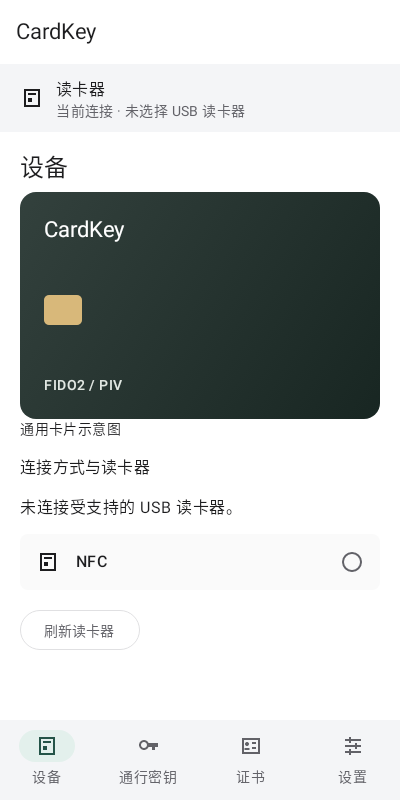
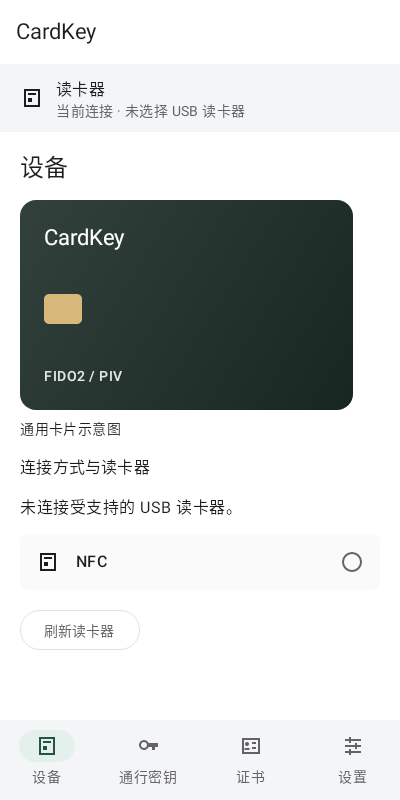
Bound card artwork and distinguish passkey accounts
AI-Agent: Codex
AI-Model: gpt-6.1-sol

Changed region(s): [[0.03, 0.2188, 0.96, 0.5312], [0.09, 0.2812, 0.33, 0.3125], [0.03, 0.25, 0.06, 0.2812]]

diff --git a/app/src/test/java/cc/cardkey/ui/PlexoPresentationRegressionTest.kt b/app/src/test/java/cc/cardkey/ui/PlexoPresentationRegressionTest.kt
@@ -1,0 +1,126 @@
+package cc.cardkey.ui
+
+import android.graphics.Bitmap
+import androidx.activity.ComponentActivity
+import androidx.activity.compose.setContent
+import androidx.compose.foundation.layout.*
+import androidx.compose.foundation.rememberScrollState
+import androidx.compose.foundation.verticalScroll
+import androidx.compose.material3.Text
+import androidx.compose.runtime.*
+import androidx.compose.ui.Modifier
+import androidx.compose.ui.platform.LocalDensity
+import androidx.compose.ui.platform.testTag
+import androidx.compose.ui.semantics.SemanticsActions
+import androidx.compose.ui.test.*
+import androidx.compose.ui.test.junit4.createEmptyComposeRule
+import androidx.compose.ui.text.TextLayoutResult
+import androidx.compose.ui.unit.Density
+import androidx.compose.ui.unit.dp
+import cc.cardkey.protocol.fido.*
+import org.junit.Assert.*
+import org.junit.Rule
+import org.junit.Test
+import org.junit.runner.RunWith
+import org.robolectric.Robolectric
+import org.robolectric.RobolectricTestRunner
+import org.robolectric.annotation.Config
+import org.robolectric.annotation.GraphicsMode
+import org.robolectric.annotation.LooperMode
+
+@RunWith(RobolectricTestRunner::class)
+@Config(sdk = [34], qualifiers = "w1200dp-h1000dp-mdpi")
+@LooperMode(LooperMode.Mode.PAUSED)
+@GraphicsMode(GraphicsMode.Mode.NATIVE)
+class PlexoPresentationRegressionTest {
+    @get:Rule val compose = createEmptyComposeRule()
+
+    @Test fun artworkFitsPhoneAndWideLandscapeWithoutOverlappingFollowingContent() {
+        val host = Robolectric.buildActivity(ComponentActivity::class.java).setup().visible()
+        var width by mutableIntStateOf(400)
+        var artwork by mutableStateOf<CardArtworkState>(CardArtworkState.Default)
+        host.get().setContent {
+            CompositionLocalProvider(LocalDensity provides Density(1f)) {
+                CardKeyTheme {
+                    Column(Modifier.requiredSize(width.dp, 480.dp).verticalScroll(rememberScrollState()).padding(20.dp)) {
+                        CardArtworkHero(artwork) {}
+                        Text("Following content", Modifier.testTag("following-content"))
+                    }
+                }
+            }
+        }
+        try {
+            val loaded = CardArtworkState.Loaded(Bitmap.createBitmap(16, 10, Bitmap.Config.ARGB_8888), "Synthetic card image")
+            for (candidateWidth in listOf(400, 1200)) {
+                for (state in listOf(CardArtworkState.Default, CardArtworkState.Loading, CardArtworkState.Failed, loaded)) {
+                    compose.runOnIdle { width = candidateWidth; artwork = state }
+                    val label = if (state is CardArtworkState.Loaded) state.label else "通用卡片示意图"
+                    val image = compose.onNodeWithContentDescription(label).fetchSemanticsNode().boundsInRoot
+                    val next = compose.onNodeWithTag("following-content").fetchSemanticsNode().boundsInRoot
+                    assertTrue("Artwork height exceeds its 210dp budget: $image", image.height <= 210.5f)
+                    assertTrue("Artwork overlaps following content: $image / $next", image.bottom <= next.top)
+                    assertEquals(1.586f, image.width / image.height, 0.02f)
+                }
+            }
+        } finally { host.pause().stop().destroy() }
+    }
+
+    private val rp = InventoryRp(RelyingParty("example.test", "Synthetic site", ByteArray(32)))
+    private fun credential(name: String?, displayName: String?, suffix: Int) = InventoryCredential(rp,
+        Credential(ByteArray(32) { 0x42 }.also { it[31] = suffix.toByte() },
+            FidoUser(byteArrayOf(suffix.toByte()), name, displayName), Cbor.Map(emptyMap()), null))
+
+    private fun renderCredentials(credentials: List<InventoryCredential>, check: (() -> InventoryCredential?) -> Unit) {
+        val host = Robolectric.buildActivity(ComponentActivity::class.java).setup().visible()
+        var selected: InventoryCredential? = null
+        host.get().setContent {
+            CompositionLocalProvider(LocalDensity provides Density(1f)) {
+                CardKeyTheme {
+                    Box(Modifier.requiredSize(400.dp, 800.dp)) {
+                        PlexoObjects(0, 0x9a, InventoryState(rps = listOf(rp), rp = rp, credentials = credentials),
+                            true, rememberScrollState(), {}, {}, {}, {}, { selected = it }, {}, {})
+                    }
+                }
+            }
+        }
+        try { compose.waitForIdle(); check { selected } }
+        finally { host.pause().stop().destroy() }
+    }
+
+    @Test fun sameDisplayNameStillShowsDifferentActualUsernamesAndRetainsSelection() {
+        val credentials = listOf(credential("alice@example.test", "Personal", 1), credential("bob@example.test", "Personal", 2))
+        renderCredentials(credentials) { selected ->
+            credentials.forEach { credential ->
+                compose.onNodeWithTag("object-credential-${credential.idHex}").performScrollTo()
+                    .assertTextContains(requireNotNull(credential.name), substring = true).performClick()
+                assertSame(credential, selected())
+            }
+        }
+    }
+
+    @Test fun identicalAccountTextIncludesCompleteCredentialIds() {
+        val credentials = listOf(credential("account@example.test", "Personal", 1), credential("account@example.test", "Personal", 2))
+        assertCompleteIdsAndSelection(credentials)
+    }
+
+    @Test fun missingAccountNamesIncludeCompleteCredentialIds() {
+        val credentials = listOf(credential(null, "Personal", 3), credential("", "Personal", 4),
+            credential(null, null, 5), credential(null, null, 6))
+        assertCompleteIdsAndSelection(credentials)
+    }
+
+    private fun assertCompleteIdsAndSelection(credentials: List<InventoryCredential>) {
+        renderCredentials(credentials) { selected ->
+            credentials.forEach { credential ->
+                val row = compose.onNodeWithTag("object-credential-${credential.idHex}")
+                row.performScrollTo().assertTextContains(credential.idHex, substring = true)
+                val results = mutableListOf<TextLayoutResult>()
+                compose.onNodeWithText(credential.idHex, substring = true, useUnmergedTree = true)
+                    .performSemanticsAction(SemanticsActions.GetTextLayoutResult) { it(results) }
+                assertFalse("Credential ID must remain fully laid out", results.single().hasVisualOverflow)
+                row.performClick()
+                assertSame(credential, selected())
+            }
+        }
+    }
+}

diff --git a/app/src/main/java/cc/cardkey/ui/PlexoWorkspace.kt b/app/src/main/java/cc/cardkey/ui/PlexoWorkspace.kt
@@ -72,9 +72,22 @@ internal fun PlexoObjects(
             if (inventory.rp != null) {
                 Text(stringResource(R.string.workspace_credentials), style = MaterialTheme.typography.titleSmall)
                 if (inventory.credentials.isEmpty()) Text(stringResource(R.string.workspace_credentialReadRequired))
-                inventory.credentials.forEach { credential ->
-                    ObjectOption(credential.displayName ?: credential.name ?: credential.idHex,
-                        credential.rp.id, inventory.credential == credential, enabled,
+                val rows = inventory.credentials.map { credential ->
+                    val name = credential.name?.takeIf { it.isNotBlank() }
+                    val title = credential.displayName?.takeIf { it.isNotBlank() } ?: name ?: credential.idHex
+                    Triple(credential, title, name)
+                }
+                val labelCounts = rows.groupingBy { (credential, title, name) ->
+                    Triple(credential.rp.id, title, name)
+                }.eachCount()
+                rows.forEach { (credential, title, name) ->
+                    val ambiguous = name == null || labelCounts.getValue(Triple(credential.rp.id, title, name)) > 1
+                    val details = buildList {
+                        if (name != null && name != title) add(name)
+                        add(credential.rp.id)
+                        if (ambiguous && title != credential.idHex) add("凭据 ID · ${credential.idHex}")
+                    }.joinToString("\n")
+                    ObjectOption(title, details, inventory.credential == credential, enabled,
                         "object-credential-${credential.idHex}") { onCredential(credential) }
                 }
             }

diff --git a/app/src/main/java/cc/cardkey/ui/CardArtworkHero.kt b/app/src/main/java/cc/cardkey/ui/CardArtworkHero.kt
@@ -20,7 +20,7 @@ import cc.cardkey.R
 @Composable
 internal fun CardArtworkHero(state: CardArtworkState, onRetry: () -> Unit) {
     Column(verticalArrangement = Arrangement.spacedBy(8.dp)) {
-        Surface(shape = RoundedCornerShape(16.dp), modifier = Modifier.fillMaxWidth().heightIn(max = 210.dp).aspectRatio(1.586f)) {
+        Surface(shape = RoundedCornerShape(16.dp), modifier = Modifier.widthIn(max = 333.dp).fillMaxWidth().aspectRatio(1.586f)) {
             if (state is CardArtworkState.Loaded) {
                 Image(state.bitmap.asImageBitmap(), state.label, Modifier.fillMaxSize(), contentScale = ContentScale.Fit)
             } else {

diff --git a/docs/PLEXO-UI-VALIDATION.md b/docs/PLEXO-UI-VALIDATION.md
@@ -21,6 +21,14 @@ Preserved full and focused JUnit reports/logs are in app/build/ui-evidence/. Rep
 
 Toolchain: existing JDK 17, Gradle 8.13 and Android SDK 36. The full suite used installed Smallstep CLI 0.31.0 and step-ca 0.30.2 for its local synthetic CA fixtures. Missing public test dependencies were resolved once, then cached checks ran offline.
 
+## PR 32 presentation corrections
+
+Card artwork now applies a 333dp maximum width before filling available width and preserving the 1.586 aspect ratio. It remains at most 210dp tall without contradictory height constraints. The native regression checks phone and wide-landscape layouts in default, loading, failed and loaded states and verifies that following content does not overlap the artwork.
+
+Credential rows retain actual usernames beside display names and RP IDs. Missing usernames or colliding visible account text expose the full credential ID without ellipsis; a full-ID title is not repeated. Synthetic fixtures include shared display names with different usernames, identical names, absent names and IDs that differ only in their final bytes. Every row still selects the exact credential object.
+
+All four new regressions failed against the prior candidate and passed after correction. The focused presentation and existing workspace suites passed 14 cases with zero failures or skips. Cached application APK, instrumentation APK and lint gates passed; unrelated test evidence above was reused. Review-round logs and JUnit reports are preserved in app/build/ui-evidence/review-round/. The committed screenshots below were refreshed from the passing disconnected fixture; the Device image was visually inspected.
+
 ## Disconnected native previews
 
 These committed PNGs are the already verified Robolectric Canvas outputs described above. They show a generic card illustration and unread/disconnected state; they do not show physical-device acceptance.

diff --git a/docs/UI-COPY-REVIEW.md b/docs/UI-COPY-REVIEW.md
@@ -440,3 +440,7 @@ The table records all resource strings and Chinese authored literals in UI/provi
 PlexoWorkspace protocol subtitle: absent → FIDO2 for Passkeys, PIV for Certificates. These are protocol labels, not certification claims. Credential row secondary text: credential.idHex → credential.rp.id (show website beside account; the credential ID remains in selected-object details). No cloud, biometric, creation-time or last-used state is added. Existing in-repository key icon is retained without a third-party asset dependency.
 
 | app/src/main/java/cc/cardkey/ui/ManagerScreen.kt / new PIN field | "新 PIN" | "新 FIDO PIN" / "新 PIV PIN" | Select the label from the operation protocol; new PUK remains "新 PUK". |
+
+## PR 32 account-disambiguation correction
+
+Screen/key: PlexoObjects / credential row. Before: title = displayName, then name, then full credential ID; secondary text = RP ID only. After: keep the display-name title, show the actual nonblank username when it differs from that title, then RP ID. If the username is missing or the resulting account text collides with another row for the same RP, also show the complete credential ID; a full-ID title is not repeated. Exact added label: absent → `凭据 ID · {full idHex}`. This reuses the existing selected-object vocabulary. Names and identifiers are supplied public credential data; no name or binding is inferred. Text wraps without ellipsis so the distinguishing ID bytes remain available. Activation: the next build of this same candidate; selection/verification/deletion commands and provider behavior are unchanged. Reviewed with plain-language-iso-24495 for identification, scope and task clarity.
